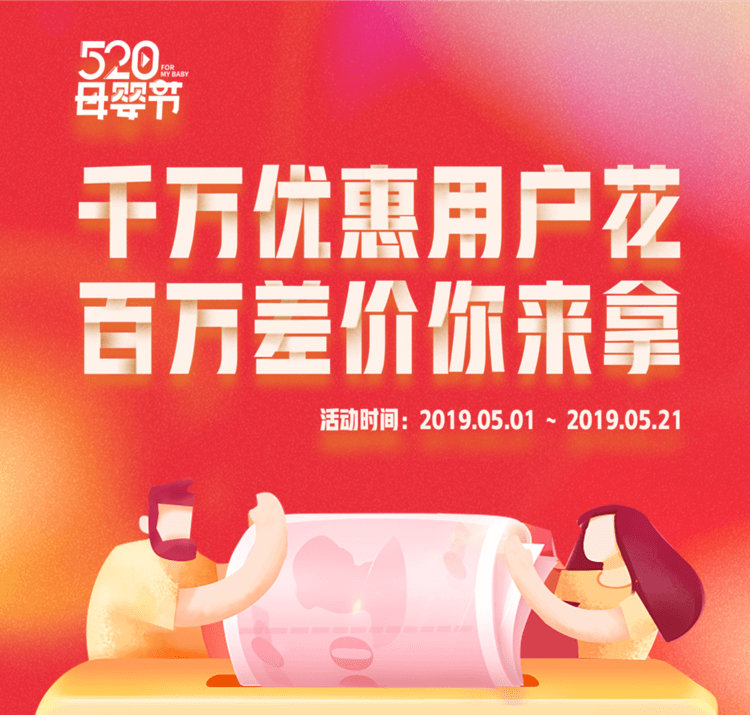
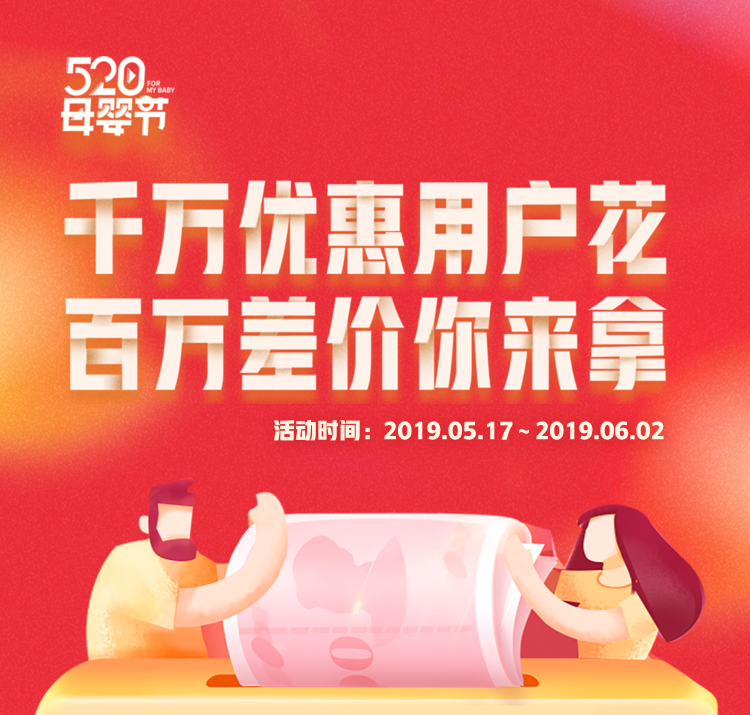
特定门店可以分享

diff --git a/src/bossShare.js b/src/bossShare.js
@@ -4,6 +4,7 @@ import '../common/stylesheet/reset.scss';
 import './bossShare/index.scss';
 import rem from '../common/javascript/rem.js';
 import { getSearchParts } from '../common/javascript/utils';
+import Vue from 'vue';
 
 rem(100,1);
 
@@ -16,22 +17,46 @@ const titleMap = {
   5:"进口母婴囤货季，邀请闺蜜还能领好礼！",
 }
 $(document).ready(function() {
-  var shareDom = document.getElementById('goShare');
-  if(!shareDom) {
-    return;
-  }
-  shareDom.onclick=function() {
-    var index = Math.floor(Math.random()*6);
-    console.log(index)
-    let spshopid = getSearchParts('spshopid');
-    window.Qtools.share(JSON.stringify({
-      type:1,
-      title:titleMap[index],
-      webpageUrl:'https://qtoolsapp-hd.qtoolsbaby.cn/download/',
-      path:'pages/welcome/welcome?scene=0_'+spshopid,
-      imageUrl:'/12345',
-      isPic:1,
-      copyText:'宝宝们，Qtools全球母婴狂欢节来啦，注册即可领取520大礼包，参与邀请闺蜜的活动，还有机会兑换精美礼品，数量有限，先到先得哦！'
-    }))
-  }
+  new Vue({
+    el:'#root',
+    data:{
+      isClick:false,
+      spshopid:null,
+      isStart:false
+    },
+    created() {
+      this.spshopid = getSearchParts('spshopid');
+    },
+    mounted() {
+      this.initPage()
+    },
+    methods: {
+      initPage:function() {
+        let vm = this;
+        if(vm.spshopid=='320') {
+          vm.isClick = true;
+        } else if(vm.isStart) {
+          vm.isClick = true;
+        } else {
+          vm.isClick = false;
+        }
+      },
+      goShare:function() {
+        let vm  = this;
+        var imageUrl = "https://qcampfile.oss-cn-shanghai.aliyuncs.com/activity_share.png";
+        if(this.isClick) {
+          var index = Math.floor(Math.random()*6);
+          window.Qtools.share(JSON.stringify({
+            type:1,
+            title:titleMap[index],
+            webpageUrl:'https://qtoolsapp-hd.qtoolsbaby.cn/download/',
+            path:'pages/welcome/welcome?scene=0_'+vm.spshopid,
+            imageUrl,
+            isPic:1,
+            copyText:'宝宝们，Qtools全球母婴狂欢节来啦，注册即可领取520大礼包，参与邀请闺蜜的活动，还有机会兑换精美礼品，数量有限，先到先得哦！'
+          }))
+        }
+      }
+    }
+  })
 });

diff --git a/src/bossShare/index.html b/src/bossShare/index.html
@@ -15,7 +15,7 @@
       <title>千万优惠用户花，百万差价你来拿</title>
   </head>
   <body>
-    <div id='root'>
+    <div id='root' v-cloak>
       <div class="banner">
         <img src="./imgs/banner.png" alt="">
       </div>
@@ -65,16 +65,16 @@
           <p class="item-rule">3. 通过门店专属页面注册的新用户都属于门店会员；</p>
           <p class="item-rule">4. 详细兑换规则可直接进入活动页面了解，数量有限，先到先得；</p>
           <p class="item-rule">5. 若发现人为作弊情况，Qtools随时终止/取消兑奖资格；</p>
-          <p class="item-rule">6. 奖品发放：活动结束后20个工作日内，Qtools统一安排实物邮寄；优惠券凡满足活动条件的，均即时到账；</p>
-          <p class="item-rule">7. 4月*日进行直播培训，实际操作中仍对活动规则、活动推广有问题的，可电话咨询品牌市场部400-7766-999，选择1；</p>
+          <p class="item-rule">6. 奖品发放：活动结束后3个工作日内，Qtools统一安排实物邮寄；优惠券凡满足活动条件的，均即时到账；</p>
+          <p class="item-rule">7. 5月13日进行直播培训，实际操作中仍对活动规则、活动推广有问题的，可电话咨询品牌市场部400-7766-999，选择1；</p>
           <p class="item-rule">8. 仅可通过邀请新用户累计Q兔徽章；</p>
           <p class="item-rule">9. 优惠券不可叠加使用；</p>
           <p class="item-rule">10. Q兔徽章兑换优惠券仅能在520母婴节（5.17-6.2）中使用。</p>
         </div>
       </div>
       <div class="footer">
-        <!-- <button type="button" name="button" class="share-btn" id="goShare">分享给客户</button> -->
-        <button type="button" name="button" class="share-btn disabled-btn">活动将于5.16正式开始</button>
+        <button type="button" name="button" class="share-btn" id="goShare" v-if="isClick" v-on:click="goShare">分享给客户</button>
+        <button type="button" name="button" class="share-btn disabled-btn" v-else>活动将于5.17正式开始</button>
       </div>
     </div>
   </body>
